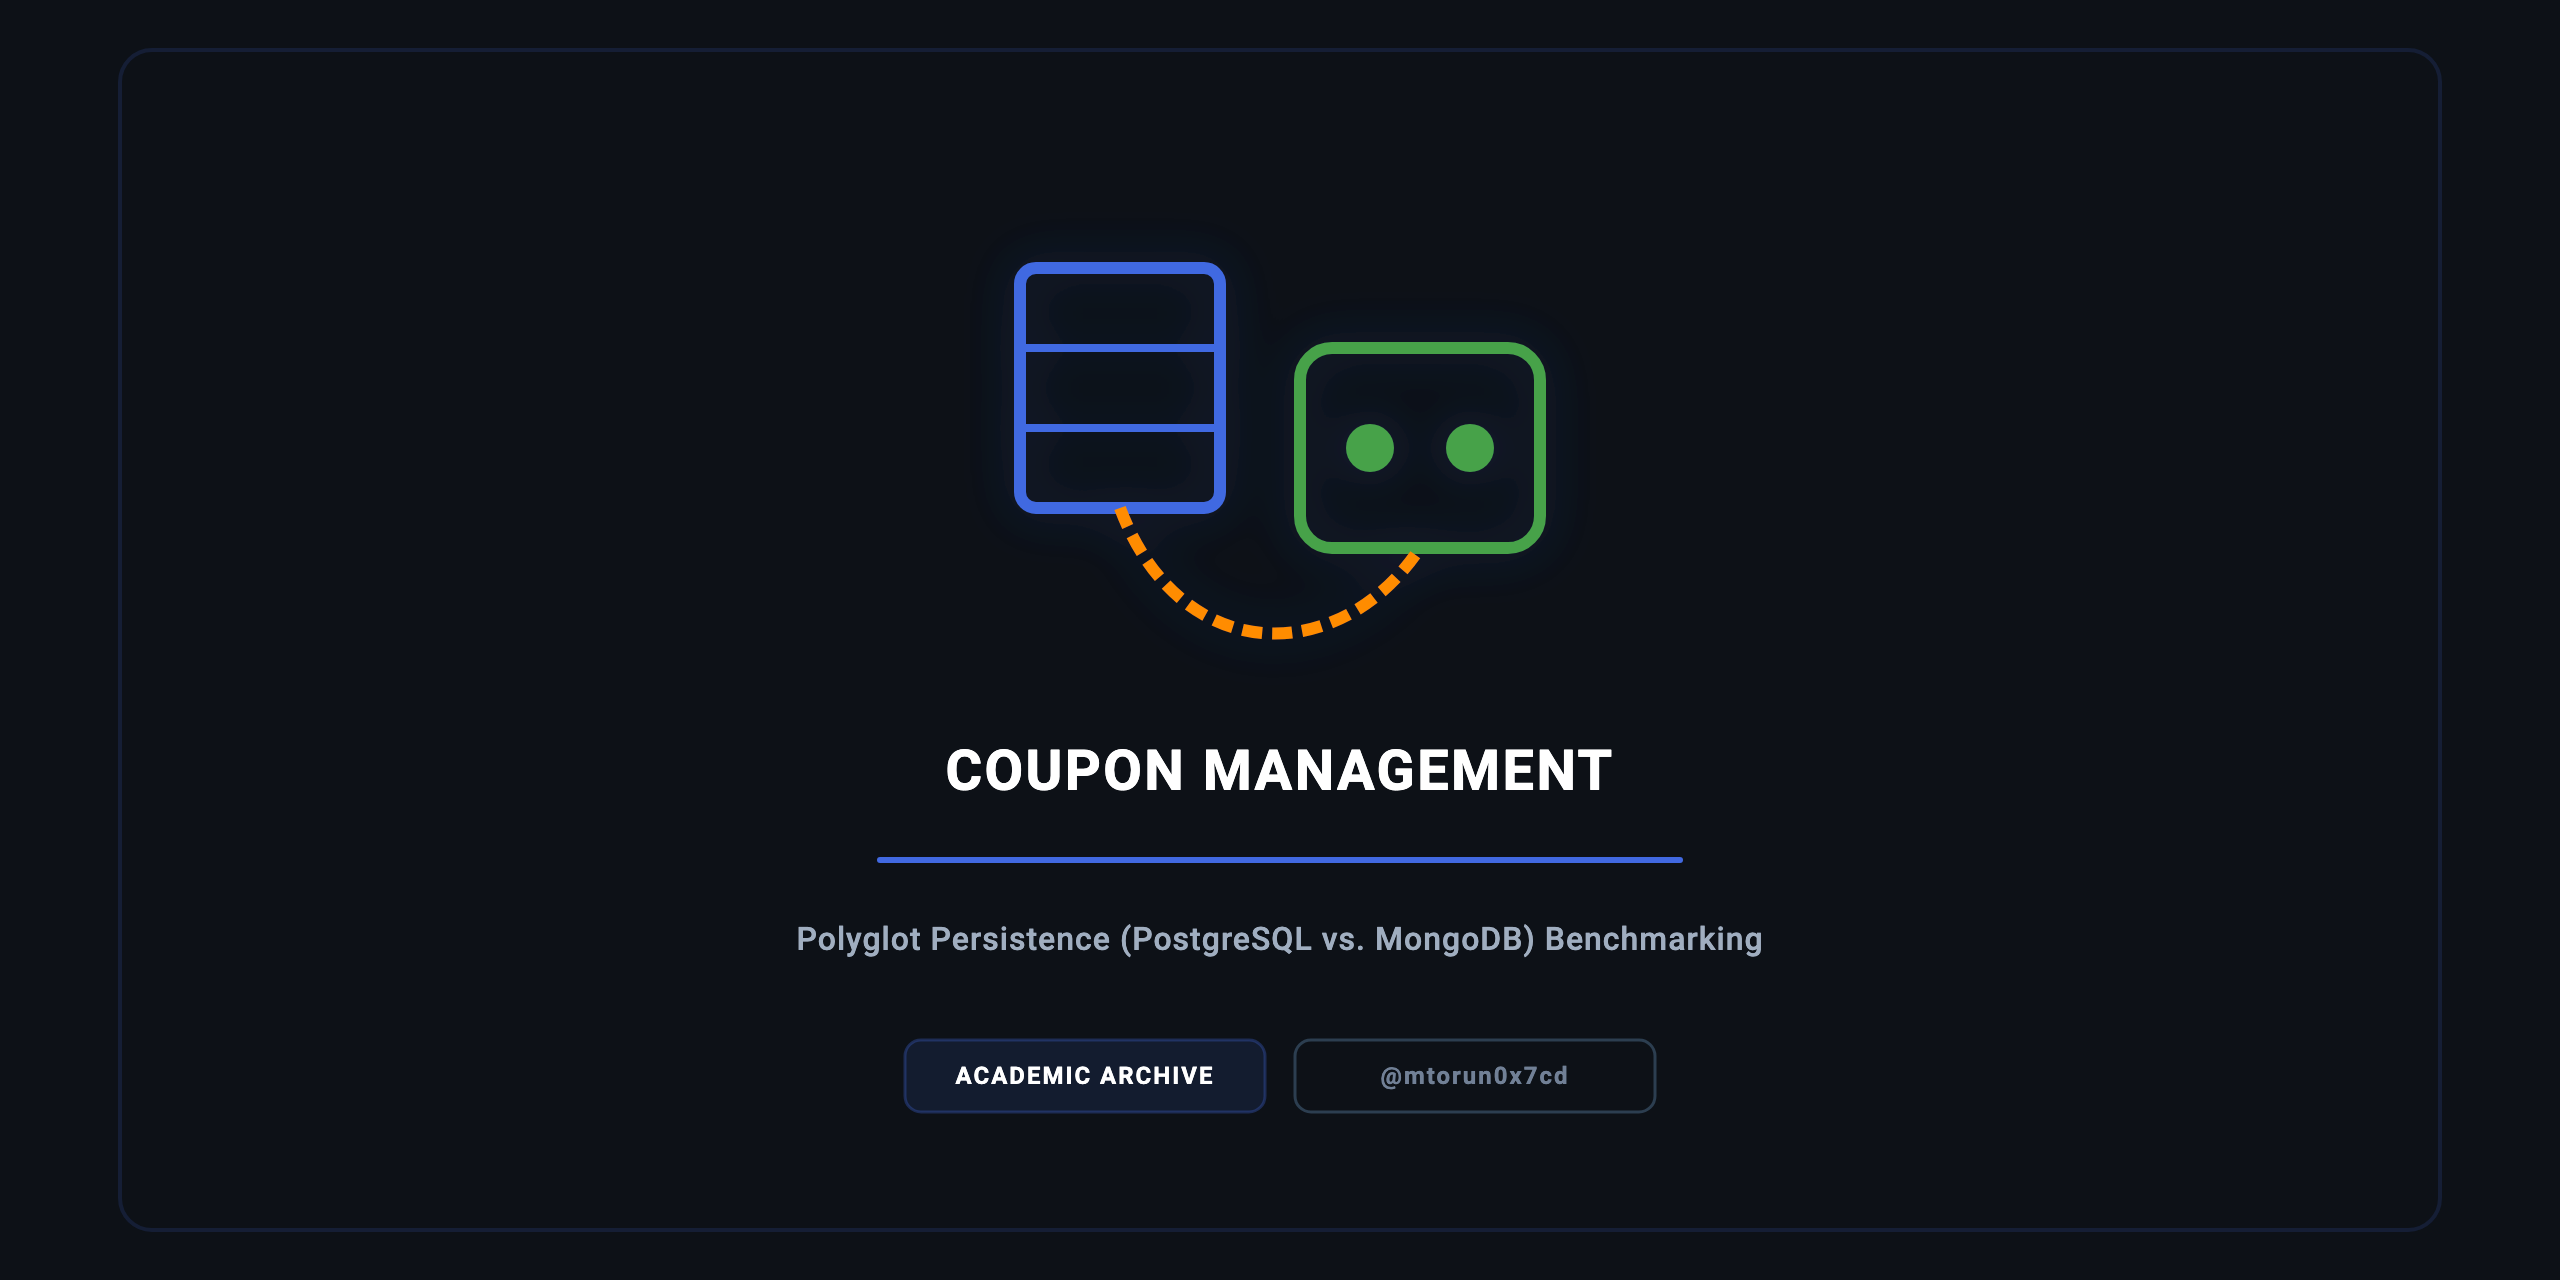
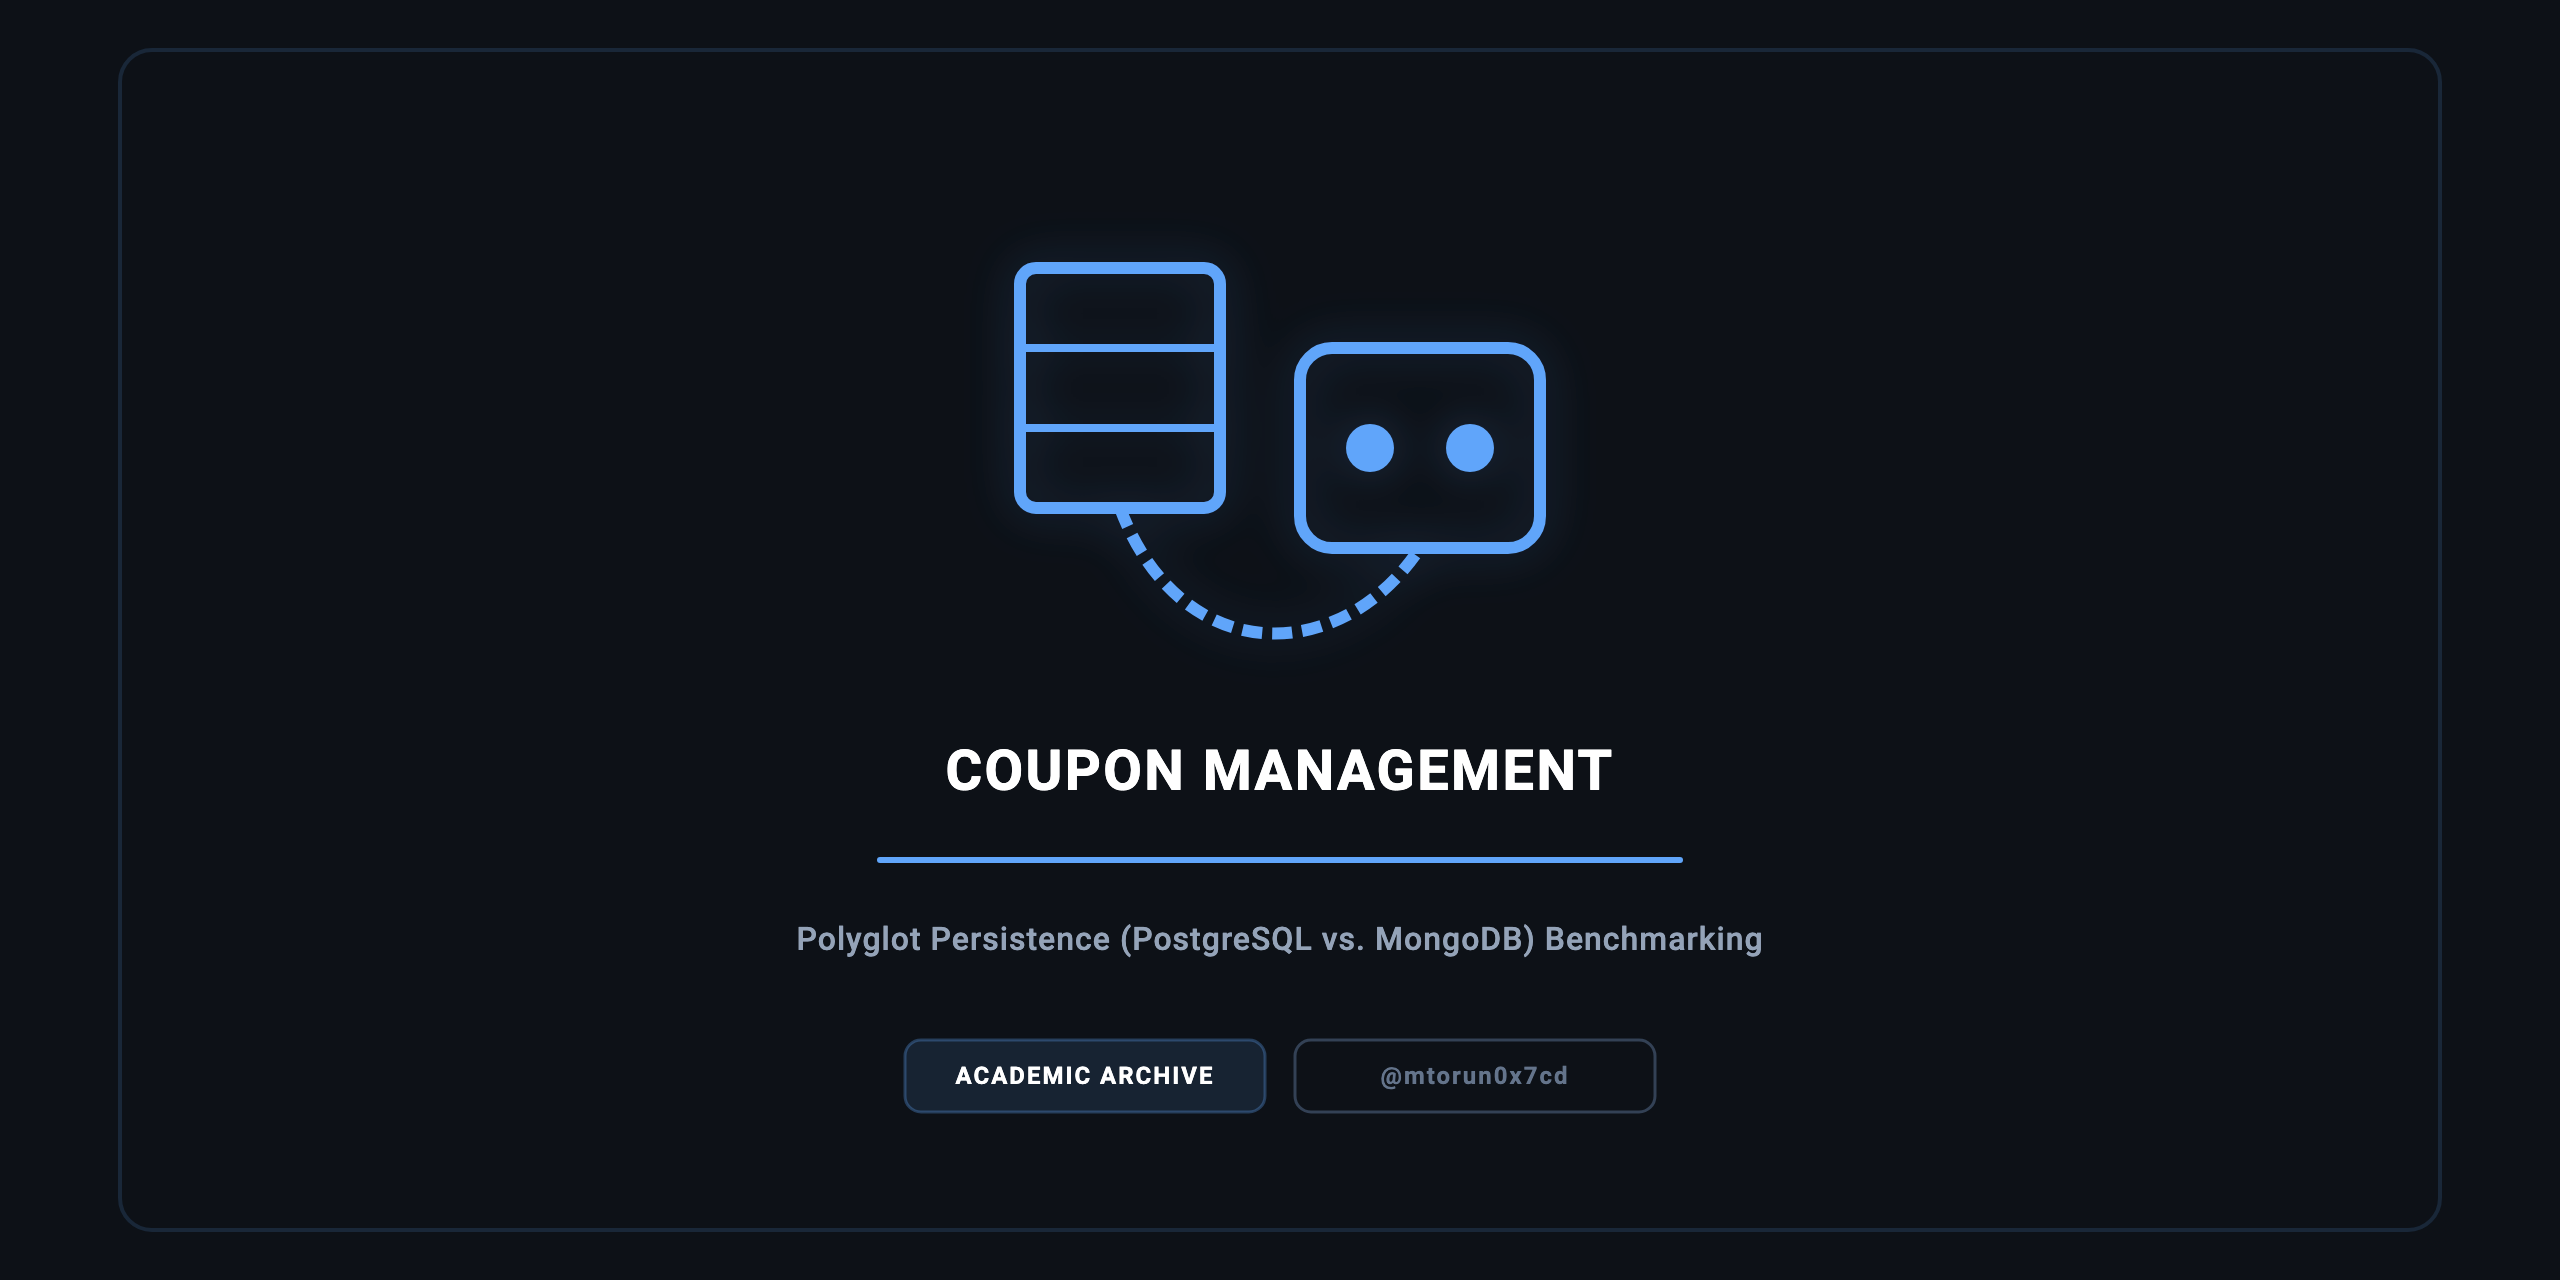
docs: recolour the social preview and ER diagram to the brand accent

diff --git a/README.md b/README.md
@@ -94,7 +94,7 @@ The domain model consists of three entities:
 Both backends use the same Django model layer, shown below. On PostgreSQL it maps to normalized tables with a `coupon_coupon_hashtags` junction table; on MongoDB, Djongo (`ENFORCE_SCHEMA = True`) maps the same models onto collections with reference fields and a junction collection. The two deployments therefore exercise the same logical schema on different storage engines — the variable under study.
 
 ```mermaid
-%%{init: {'theme': 'base', 'themeVariables': { 'primaryColor': '#eaf1ff', 'edgeColor': '#2563EB', 'primaryBorderColor': '#2563EB', 'lineColor': '#2563EB', 'textColor': '#0a2a66' }}}%%
+%%{init: {'theme': 'base', 'themeVariables': { 'primaryColor': '#EFF6FF', 'edgeColor': '#2563EB', 'primaryBorderColor': '#2563EB', 'lineColor': '#2563EB', 'textColor': '#0F172A' }}}%%
 erDiagram
     auth_user ||--o{ Coupon : owns
     auth_user ||--o{ Comment : writes
